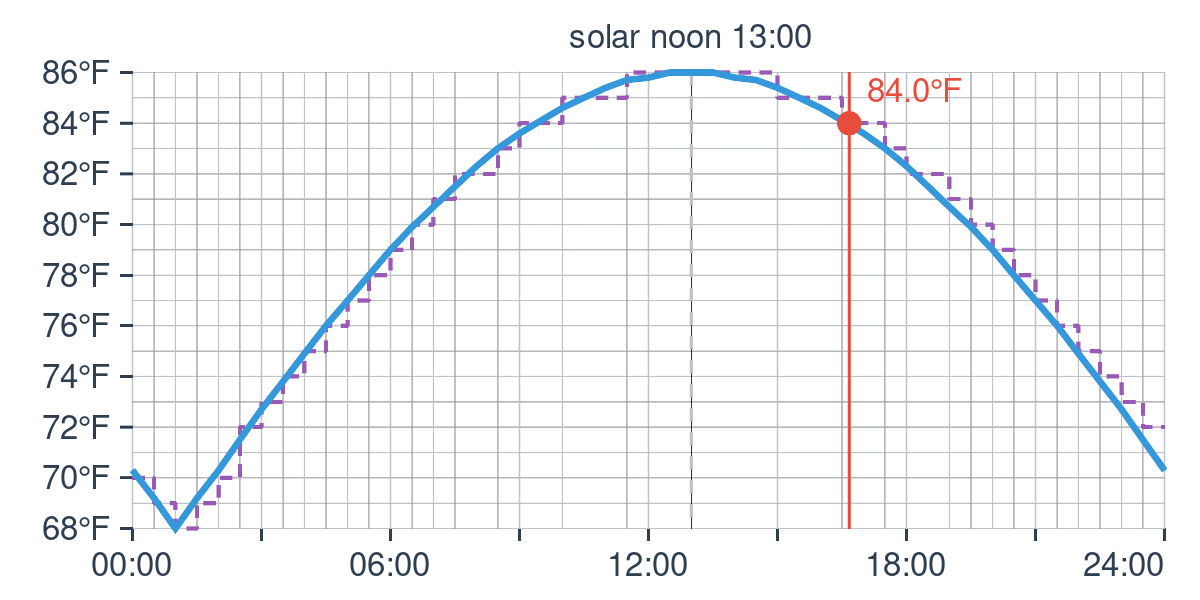
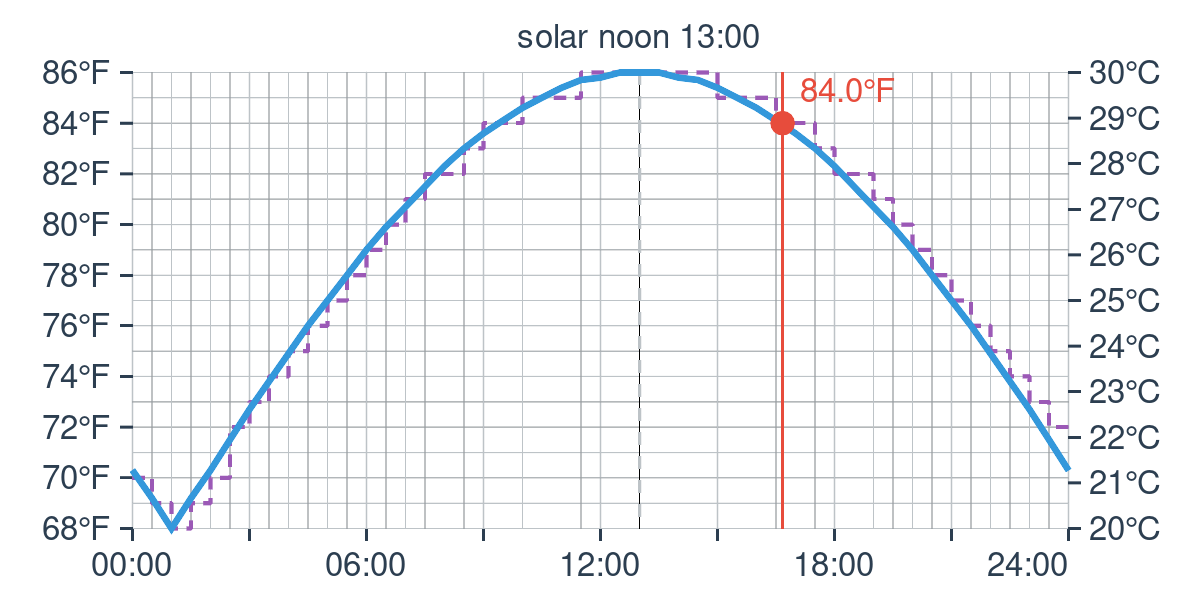
🤖 Chart: show the wave's own unit on a second axis
- When the minimum is typed in a different unit from Home Assistant's,
  the chart labels the right-hand axis in that unit, at the same heights.
- Sample charts (chart.png and the peak sharpness images) show both units.
- Image test checks the second axis.

Claude-Session: https://claude.ai/code/session_016WRmGZvwJTKGjtK7asqVVU

diff --git a/custom_components/daily_temperature_wave/chart.py b/custom_components/daily_temperature_wave/chart.py
@@ -15,6 +15,7 @@ WIDTH = 400  # the drawing's own coordinates (the viewBox)
 HEIGHT = 200
 SCALE = 3  # the image is this many times the drawing's size
 LEFT, RIGHT, TOP, BOTTOM = 44, 12, 24, 24  # padding around the plot
+RIGHT_WITH_AXIS = 44  # room for a second temperature axis on the right
 # a light card of its own, so the chart reads the same on light and dark themes
 BACKGROUND = "#ffffff"
 CURVE_COLOR = "#3498db"
@@ -38,13 +39,22 @@ def _labelled_temps(low: float, high: float) -> list[float]:
     return [first + i * step for i in range(max(count, 0))]
 
 
-def render_svg(state: WaveState, convert: Callable[[float], float], unit: str) -> str:
+def render_svg(
+    state: WaveState,
+    convert: Callable[[float], float],
+    unit: str,
+    second: tuple[Callable[[float], float], Callable[[float], float], str]
+    | None = None,
+) -> str:
     """Draw today (midnight to midnight): the wave, its steps, solar noon and now.
 
     Args:
         state: The coordinator's latest calculation.
         convert: Celsius to the unit to label the chart in.
         unit: That unit's symbol, e.g. ``"°C"``.
+        second: For a wave typed in another unit: Celsius to that unit, that
+            unit back to Celsius, and its symbol. It gets its own axis on the
+            right, so both units show.
 
     Returns:
         A standalone SVG document.
@@ -56,7 +66,8 @@ def render_svg(state: WaveState, convert: Callable[[float], float], unit: str) -
     low = min(*temps, *(t for _, t in steps))
     high = max(*temps, *(t for _, t in steps))
     span = (high - low) or 1.0
-    plot_w, plot_h = WIDTH - LEFT - RIGHT, HEIGHT - TOP - BOTTOM
+    right = RIGHT_WITH_AXIS if second else RIGHT
+    plot_w, plot_h = WIDTH - LEFT - right, HEIGHT - TOP - BOTTOM
 
     def x(hour: float) -> float:
         return round(LEFT + plot_w * hour / day_hours, 1)
@@ -93,7 +104,7 @@ def render_svg(state: WaveState, convert: Callable[[float], float], unit: str) -
     for degree in range(math.ceil(low), math.floor(high) + 1):
         dy = y(degree)
         parts.append(
-            f'<line x1="{LEFT}" y1="{dy}" x2="{WIDTH - RIGHT}" y2="{dy}" '
+            f'<line x1="{LEFT}" y1="{dy}" x2="{WIDTH - right}" y2="{dy}" '
             f'stroke="{GRID_COLOR}" stroke-width="0.3"/>'
         )
     # a faint line at each change in the schedule (the first is midnight)
@@ -112,6 +123,21 @@ def render_svg(state: WaveState, convert: Callable[[float], float], unit: str) -
             f'<text x="{LEFT - 7}" y="{ty + 4}" text-anchor="end" {FONT} '
             f'fill="{TEXT_COLOR}">{temp:g}{unit}</text>'
         )
+
+    # the second axis, on the right, at the same heights
+    if second:
+        to_second, to_celsius, second_unit = second
+        celsius = [p.temperature for p in state.curve] + [
+            p.temperature for p in state.schedule
+        ]
+        for value in _labelled_temps(to_second(min(celsius)), to_second(max(celsius))):
+            sy = y(convert(to_celsius(value)))
+            parts.append(
+                f'<line x1="{WIDTH - right}" y1="{sy}" x2="{WIDTH - right + 4}" '
+                f'y2="{sy}" stroke="{TEXT_COLOR}" stroke-width="0.8"/>'
+                f'<text x="{WIDTH - right + 7}" y="{sy + 4}" {FONT} '
+                f'fill="{TEXT_COLOR}">{value:g}{second_unit}</text>'
+            )
 
     # solar noon
     noon_x = x(_hour_of_day(state.solar_noon, midnight))

diff --git a/custom_components/daily_temperature_wave/image.py b/custom_components/daily_temperature_wave/image.py
@@ -68,8 +68,24 @@ class DailyTemperatureWaveChart(DailyTemperatureWaveEntity, ImageEntity):
         """The chart, drawn from the latest calculation."""
         unit = self.hass.config.units.temperature_unit
         return render_svg(
-            self.coordinator.data, self.display_temperature, unit
+            self.coordinator.data,
+            self.display_temperature,
+            unit,
+            self._second_axis(unit),
         ).encode()
+
+    def _second_axis(self, unit: str) -> tuple | None:
+        """The wave's own unit, if it was typed in a different one."""
+        entered = self.coordinator.settings.entered_unit
+        if f"°{entered}" == unit:
+            return None
+        if entered == "F":
+            return (
+                lambda c: c * 9 / 5 + 32,
+                lambda f: (f - 32) * 5 / 9,
+                "°F",
+            )
+        return (lambda c: c, lambda c: c, "°C")
 
     @property
     def extra_state_attributes(self) -> dict[str, Any]:

diff --git a/custom_components/daily_temperature_wave/coordinator.py b/custom_components/daily_temperature_wave/coordinator.py
@@ -39,6 +39,7 @@ from .wave import (
     is_falling,
     is_rising,
     parse_step,
+    parse_temperature,
     parse_temperature_celsius,
     round_to_step,
     temperature_at,
@@ -76,6 +77,7 @@ class WaveSettings:
     step_unit: str
     step_interval: int  # minutes
     solar_noon_override: time | None
+    entered_unit: str  # "C" or "F": the unit the minimum was typed in
     peak_offset: timedelta  # the peak is this long after solar noon
 
     @classmethod
@@ -100,6 +102,9 @@ class WaveSettings:
             step_unit=step_unit,
             step_interval=int(options.get(CONF_STEP_INTERVAL, DEFAULT_STEP_INTERVAL)),
             solar_noon_override=parse_time(options.get(CONF_SOLAR_NOON_OVERRIDE)),
+            entered_unit=parse_temperature(
+                options.get(CONF_MIN_TEMP, DEFAULT_MIN_TEMP)
+            )[1],
             peak_offset=timedelta(
                 minutes=float(options.get(CONF_PEAK_OFFSET, DEFAULT_PEAK_OFFSET) or 0)
             ),

diff --git a/tests/test_image.py b/tests/test_image.py
@@ -78,6 +78,7 @@ async def test_chart_in_fahrenheit(
     assert hass.states.get(CHART).attributes["points"][0]["temperature"] > 60
     svg = await _fetch(hass, hass_client_no_auth)
     assert "86°F" in svg
+    assert "20°C" in svg  # the wave was typed in Celsius, so both units show
     assert "68°F" in svg
 
 
